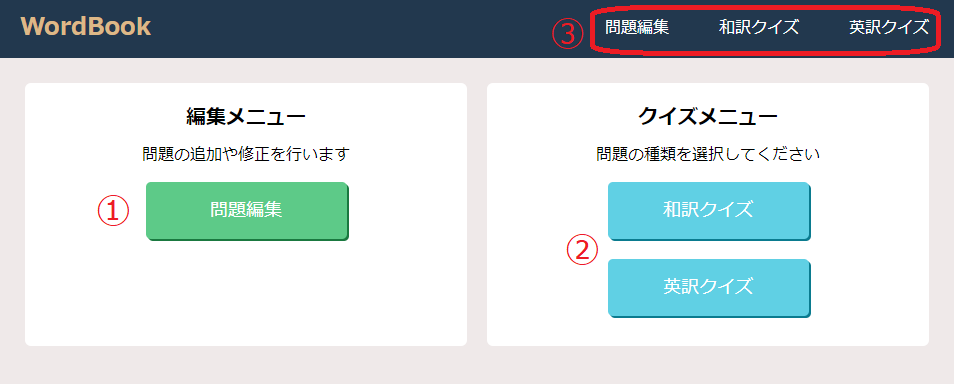
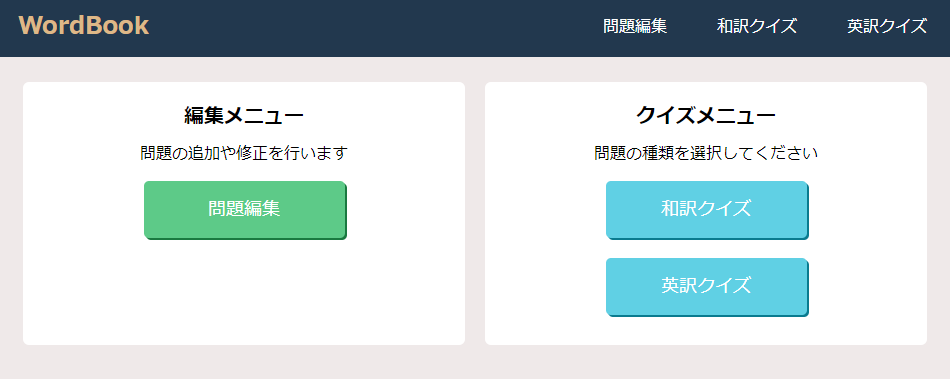
readme更新

diff --git a/README.md b/README.md
@@ -1,9 +1,11 @@
 # WordBook
+
+![demo](https://user-images.githubusercontent.com/18690548/127679785-756d6c48-cc78-43e1-8e1b-9ba9f688b0a9.gif)
+
+# 概要
 日本語と英語の単語帳アプリケーションです。  
 和訳と英訳の問題作成、クイズができます。  
-スマートフォンからも実行可能です。  
-
-![demo](./image/readme_resource/demo.gif "クイズデモ画面")
+スマートフォンからも実行可能です。 
 
 # URL
 https://mikanbako.sakura.ne.jp/Wordbook/
@@ -22,9 +24,9 @@ https://mikanbako.sakura.ne.jp/Wordbook/
 * VSCode
 
 # 機能一覧
-* トップページ
+* トップ画面
 * 問題編集画面
-  * 新規登録
+  * 登録
   * 更新
   * 削除
   * 登録データ一覧閲覧
@@ -35,20 +37,26 @@ https://mikanbako.sakura.ne.jp/Wordbook/
 
 # 使用方法
 ## トップ画面
-問題編集画面、クイズ画面へ遷移できます。
-
-![top](./image/readme_resource/top.png "トップ画面")
-
-①：問題編集画面に進みます。  
-②：選択した種類のクイズ画面に進みます。  
-③：選択した各画面へ進みます。  
+問題編集画面、クイズ画面へ遷移できます。  
+![top](https://user-images.githubusercontent.com/18690548/127679981-5b18eefe-d5c2-40ab-b43d-b9d94e0fbcfc.png)
 
 ## 問題編集画面
+### 編集
+問題の登録、更新、削除ができます。  
+![edit_regist](https://user-images.githubusercontent.com/18690548/127680102-60316beb-7423-466c-a857-9a5439bee501.gif)
 
-
+### 登録データ一覧表示
+登録されているデータを確認できます。  
+![edit_view](https://user-images.githubusercontent.com/18690548/127680193-317899d4-bcb9-40fe-8a1d-abfa075e889e.gif)
 
 ## クイズ画面
+### 設定画面
+出題される問題種類、問題数、音声の有無を設定できます。スタートボタンを押すとクイズが始まります。  
+![quiz_setting](https://user-images.githubusercontent.com/18690548/127680400-a8f6203f-c76e-4adc-9c9c-e214643394e3.png)
 
+### クイズ
+設定されたクイズが出題されます。選択肢を1つ選んで解答していきます。最後に結果画面が表示されます。  
+![quiz](https://user-images.githubusercontent.com/18690548/127680818-e8f1ca7d-4d7c-496b-963b-97e8a9e0b508.gif)
 
 # リンク
 * [Github](https://github.com/yoshitaka7144)
